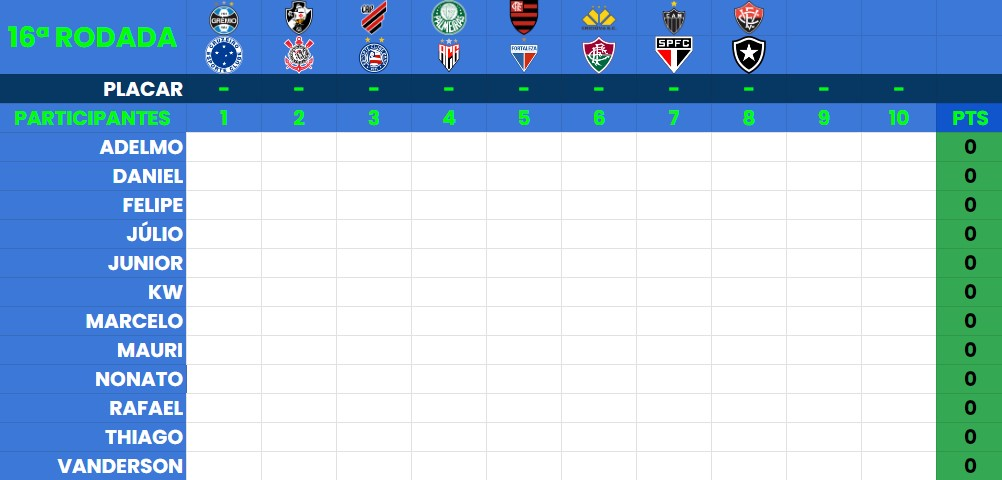
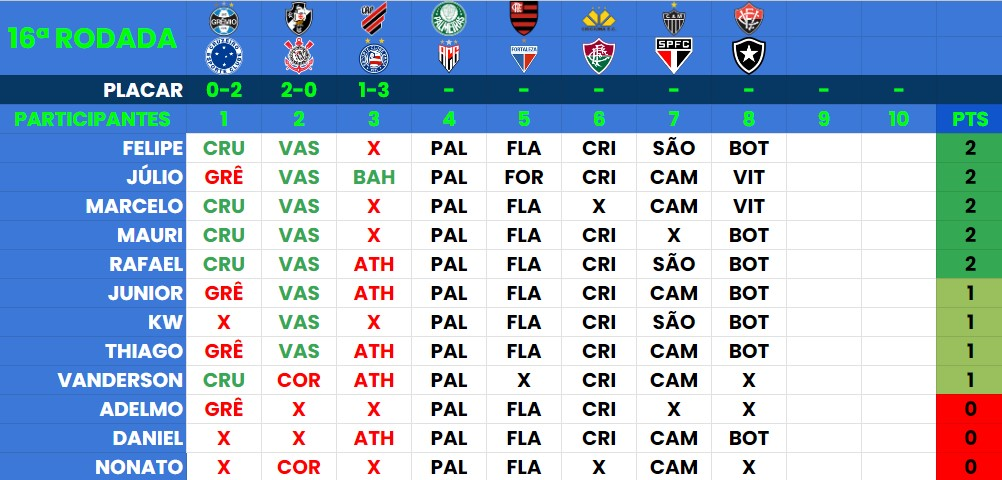
u

diff --git a/index.html b/index.html
@@ -51,12 +51,12 @@
           <img src="./assets/Round16.jpg" alt="Logo do Campeonato Brasileiro 2022" />
         </div>
         <div class="text">
-          <h2 class="title"><a href="./palpites_16.html">MERCADO ABERTO PARA A 16ª RODADA</a>
+          <h2 class="title"><a href="./predictor.html">MERCADO FECHADO</a>
           </h2>
           <p>
-            Com os resultados Adelmo continua na liderança do bolão.
+            Bola rolando...
           </p>
-          <a class="button" href="./palpites_16.html">Palpitem na 16ª Rodada</a>
+          <a class="button" href="./predictor.html">Resumo da 16ª Rodada</a>
         </div>
       </div>
     </section>

diff --git a/predictor.html b/predictor.html
@@ -51,6 +51,8 @@
     <div class="container mt-3"><br><br><br>
       <h2 style="text-align: center; color: cornflowerblue; font-weight: bold;">Todas as Rodadas abaixo</h2>
     </div>
+    <h2 style="text-align: center; color: cornflowerblue; font-weight: bold;">16ª Rodada</h2>
+    <img src="./assets/Round16.jpg" alt="">
     <h2 style="text-align: center; color: cornflowerblue; font-weight: bold;">15ª Rodada</h2>
     <img src="./assets/Round15.jpg" alt="">
     <h2 style="text-align: center; color: cornflowerblue; font-weight: bold;">14ª Rodada</h2>
